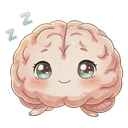
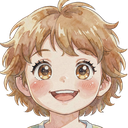
freeze gauge when video is paused and notify background

diff --git a/content/overlay.js b/content/overlay.js
@@ -177,6 +177,16 @@
     if (gaugeTimer) clearInterval(gaugeTimer);
     let prevLeft = null;
     const update = () => {
+      // The gauge is authoritative on real playback: usage time must only drain
+      // while a video is actually playing. If nothing is playing (e.g. the video
+      // stayed paused after a rest ended, or a pause event never reached the
+      // background), freeze here and tell the background to stop the clock.
+      const playing = [...document.querySelectorAll('video')].some((v) => !v.paused && !v.ended);
+      if (!playing) {
+        chrome.runtime.sendMessage({ type: 'videoPaused' }).catch(() => {});
+        showGaugeFrozen(Math.max(0, endTime - Date.now()), totalMs);
+        return;
+      }
       const left = endTime - Date.now();
       const level = Math.max(0, Math.min(1, left / totalMs));
       paintGauge(node, level, left);